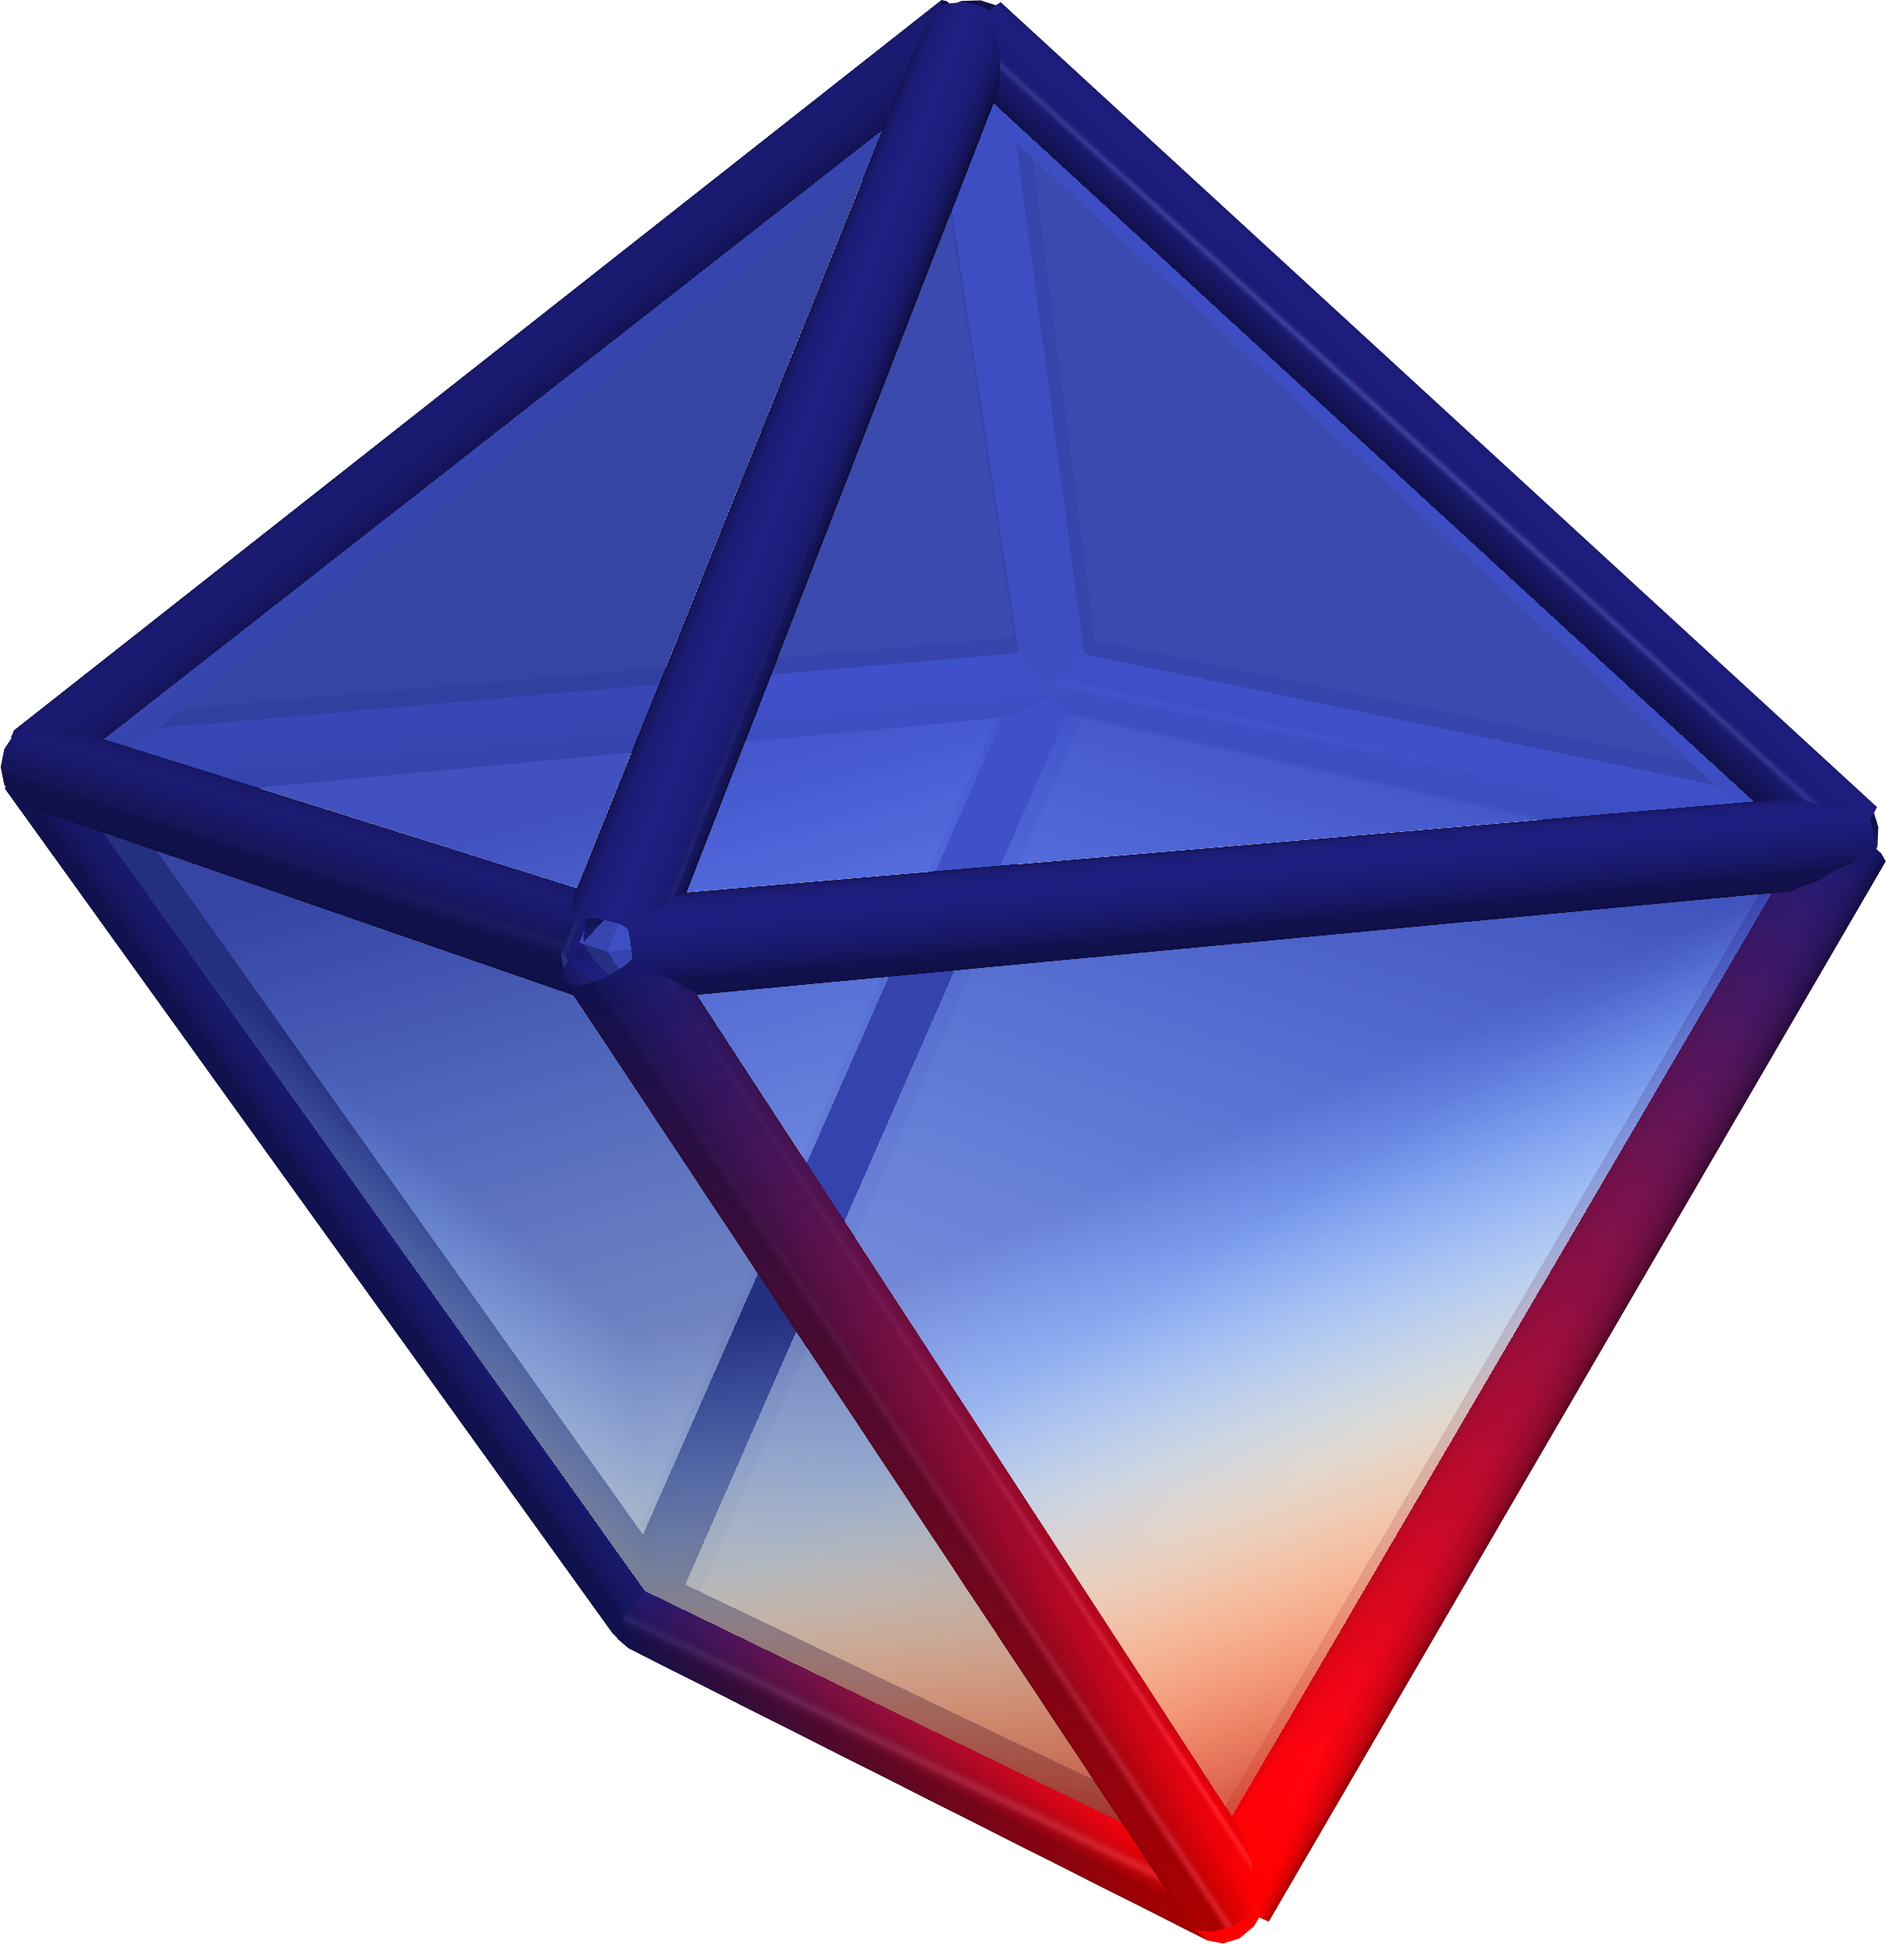
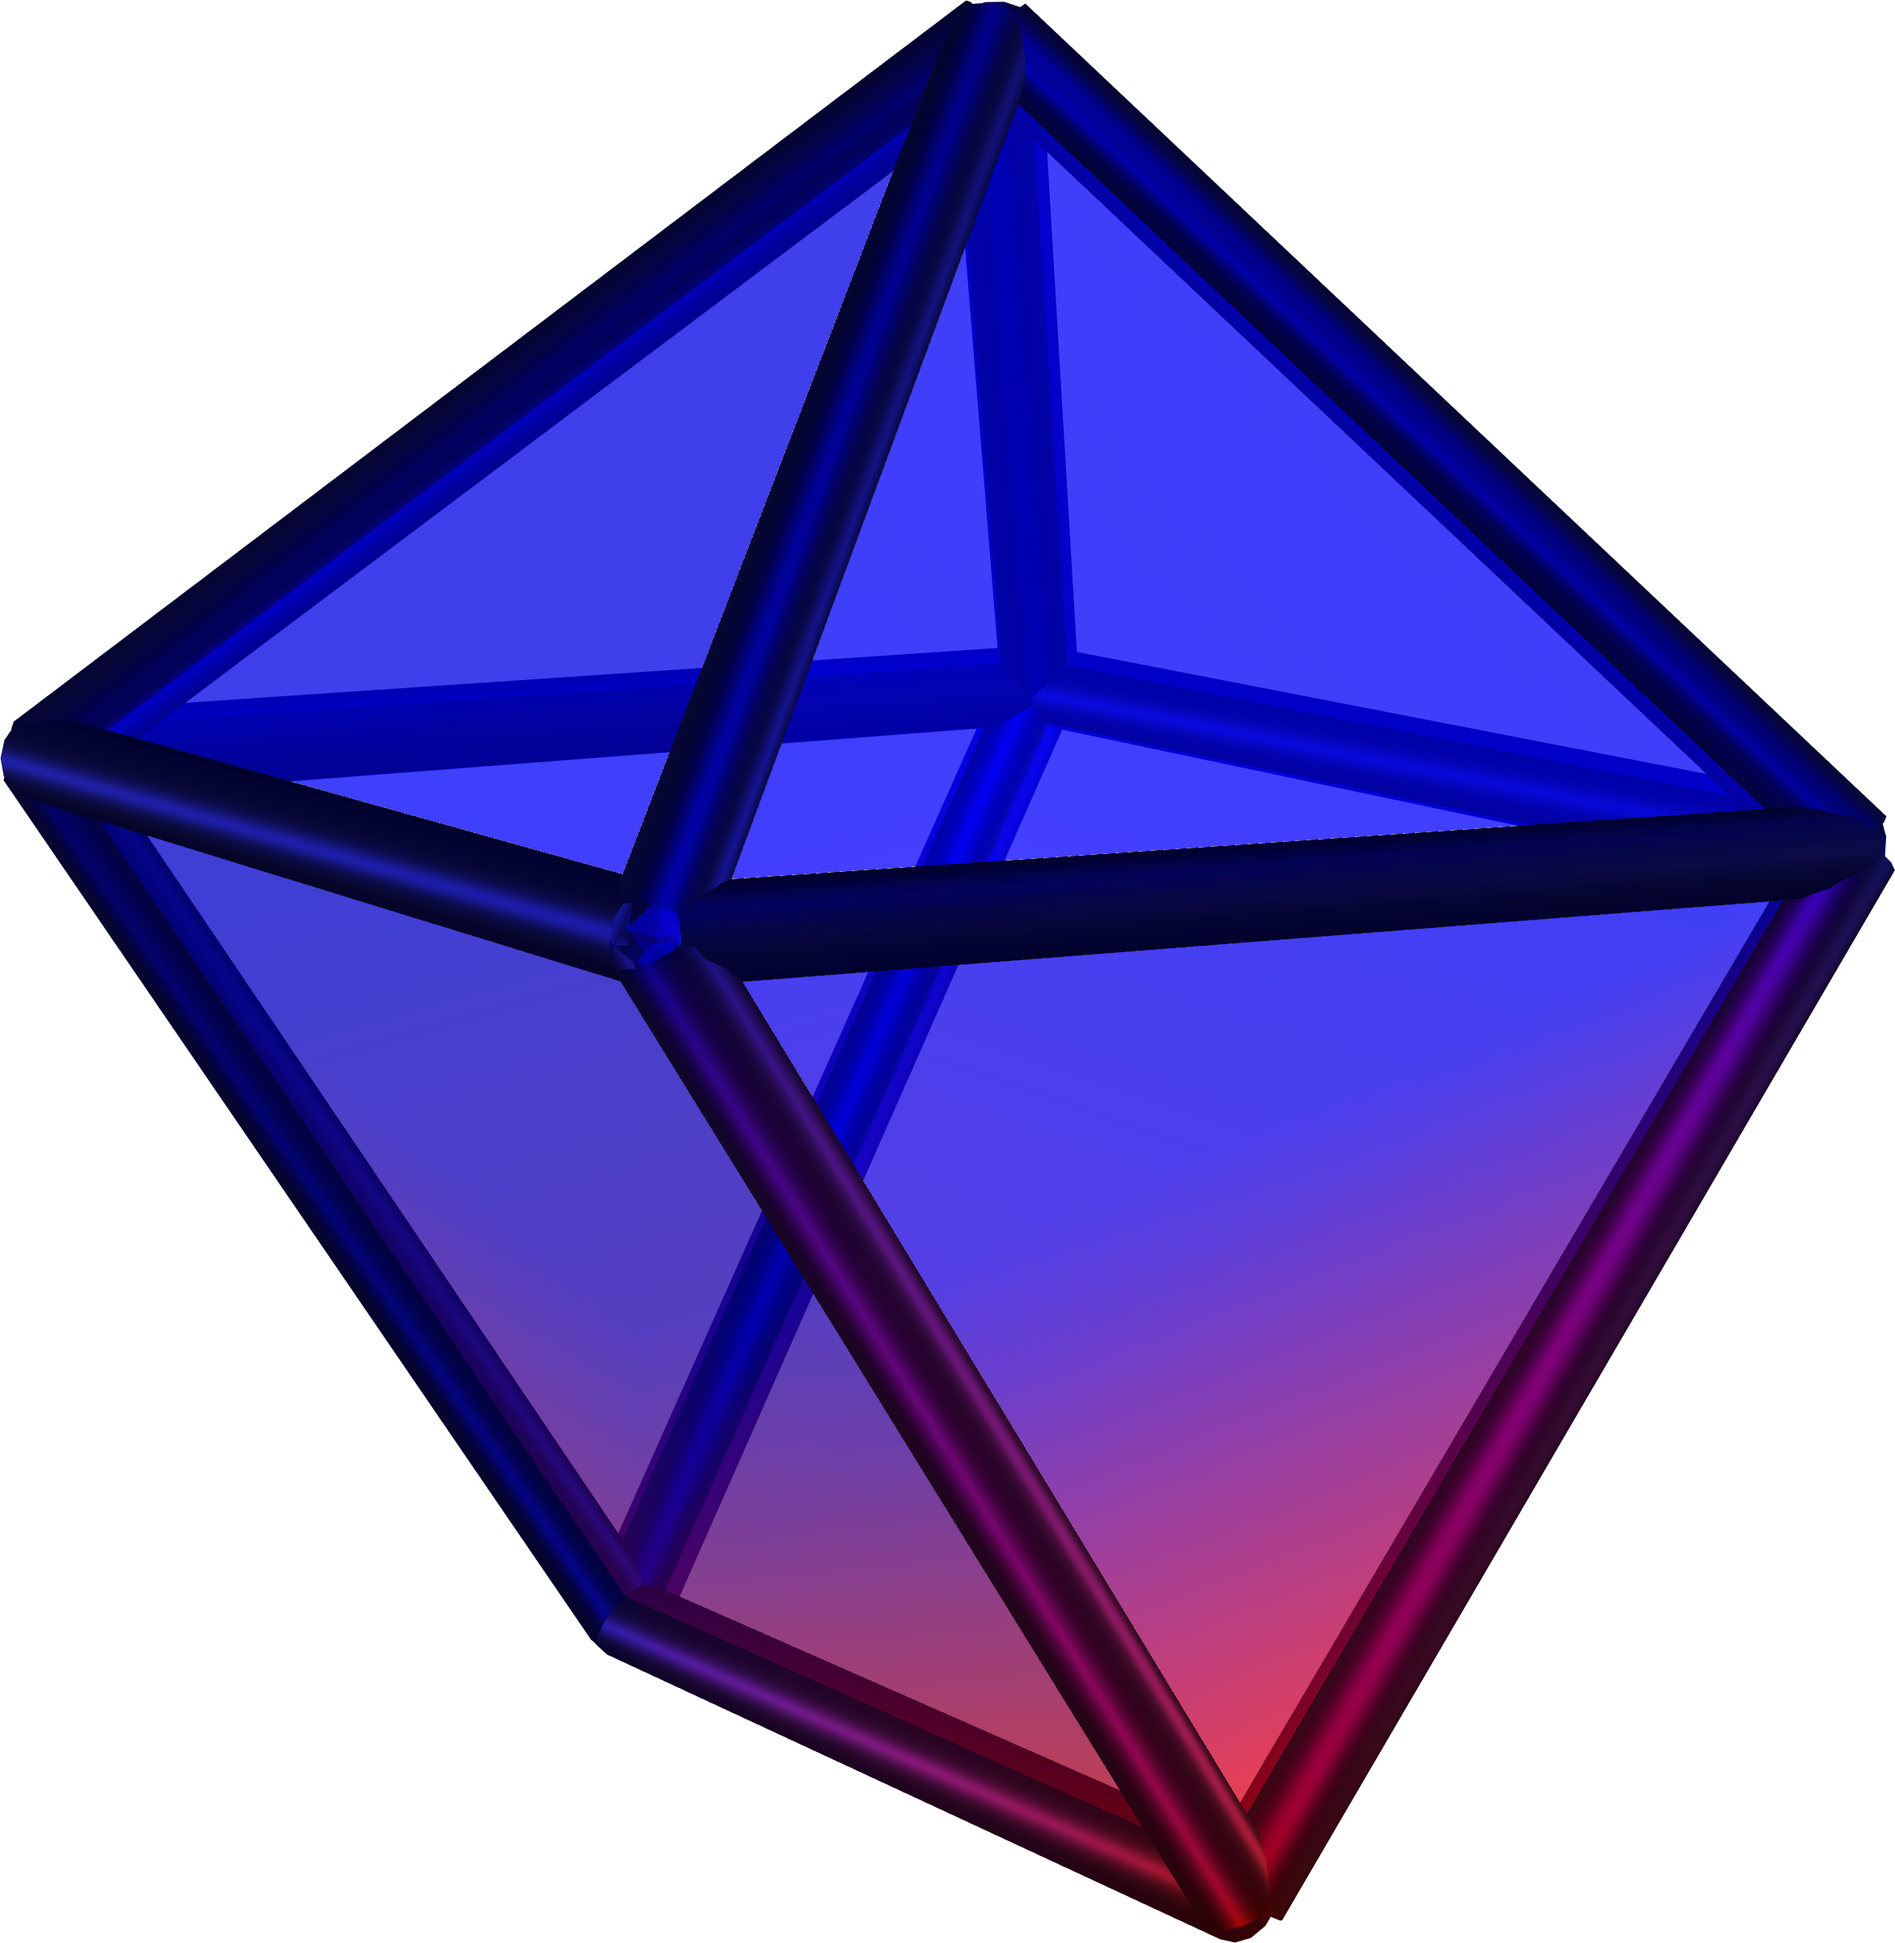
enable depth peeling and metallic bonds

diff --git a/examples/render_capped_trigonal_prism/calc_sph_clean.py b/examples/render_capped_trigonal_prism/calc_sph_clean.py
@@ -72,11 +72,7 @@ def create_bonds_from_edges(plotter, hull:PolyData, edges, point_colours=None, s
         # Create matplotlib colormap
         colors = [point_colours[a_index], point_colours[b_index]]
         m_cmap = LinearSegmentedColormap.from_list("mycmap", colors)
-        #
-        nodes = make_interpolated_points(pointa, pointb, num_points)
-        edges = edges_with_padding_adjacent(nodes)
-        #
-        cylinder = pv.PolyData(nodes, edges)
+        # Each tube is between the two input points 
         tube = pv.Tube(pointa=pointa, pointb=pointb, resolution=1, radius=0.1, n_sides=15)
         # Create color ids
         color_ids = [] 
@@ -87,6 +83,7 @@ def create_bonds_from_edges(plotter, hull:PolyData, edges, point_colours=None, s
         show_edges=False,
         metallic=True,
         smooth_shading=True,
+        pbr=True,
         specular=0.7,
         ambient=0.3,
         scalars=color_ids,
@@ -185,12 +182,14 @@ pl.image_scale = 4
 
 pl.set_background("white") # Background 
 # Colour the mesh faces according to the distance from the center 
-matplotlib_cmap = plt.cm.get_cmap("coolwarm") # Get the colormap from matplotlib
+# matplotlib_cmap = plt.cm.get_cmap("coolwarm") # Get the colormap from matplotlib
+colors = ["blue", "red"]
+matplotlib_cmap = LinearSegmentedColormap.from_list("mycmap", colors)
 # Add the convex hull 
 pl.add_mesh(polyhull, 
     line_width=3, 
     show_edges=False,
-    opacity=0.85,
+    opacity=0.5,
     metallic=True,
     show_scalar_bar=False,
     specular=0.7,
@@ -200,7 +199,8 @@ pl.add_mesh(polyhull,
     pickable=False)
 
 # Create the bonds corresponding to the edges and add them to the plotter
-point_colours = ["midnightblue", "midnightblue", "midnightblue", "midnightblue", "midnightblue", "midnightblue", "red"]# Don't hard code darkblue
+# Use matplotlib colors for points and bonds!
+point_colours = ["blue", "blue", "blue", "blue", "blue", "blue", "red"]# Don't hard code darkblue midnightblue
 pl = create_bonds_from_edges(pl, polyhull, edges, point_colours=point_colours)
 
 # ------------------------------------
@@ -229,18 +229,20 @@ pl.show(before_close_callback=lambda pl: last_frame_info(pl,cam_positions), auto
 # Create a separate render image 
 pl_render = pv.Plotter(off_screen=True, window_size=[4000,4000])
 pl_render.set_background("white") # Background 
+pl_render.enable_depth_peeling(10)
 
 # Colour the mesh faces according to the distance from the center 
 pl_render.add_mesh(polyhull, 
     line_width=3, 
     show_edges=False,
-    opacity=0.85,
+    opacity=0.5,
     metallic=True,
     show_scalar_bar=False,
     specular=0.7,
-    ambient=0.3,cmap=matplotlib_cmap, 
+    ambient=0.3,
+    cmap=matplotlib_cmap, 
     clim=[dist[4],dist[-1]], 
-    scalars=dist) 
+    scalars=dist) # ambient=0.3,
 
 # Create the bonds from the edges
 pl_render = create_bonds_from_edges(pl_render, polyhull, edges, point_colours=point_colours)
